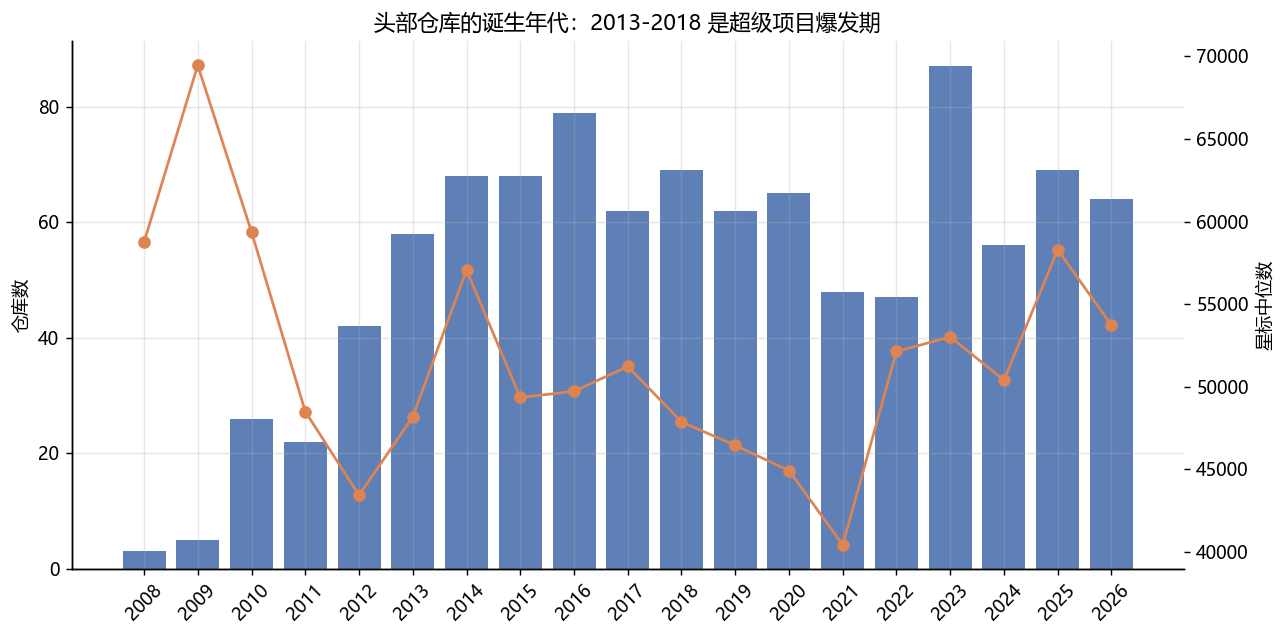
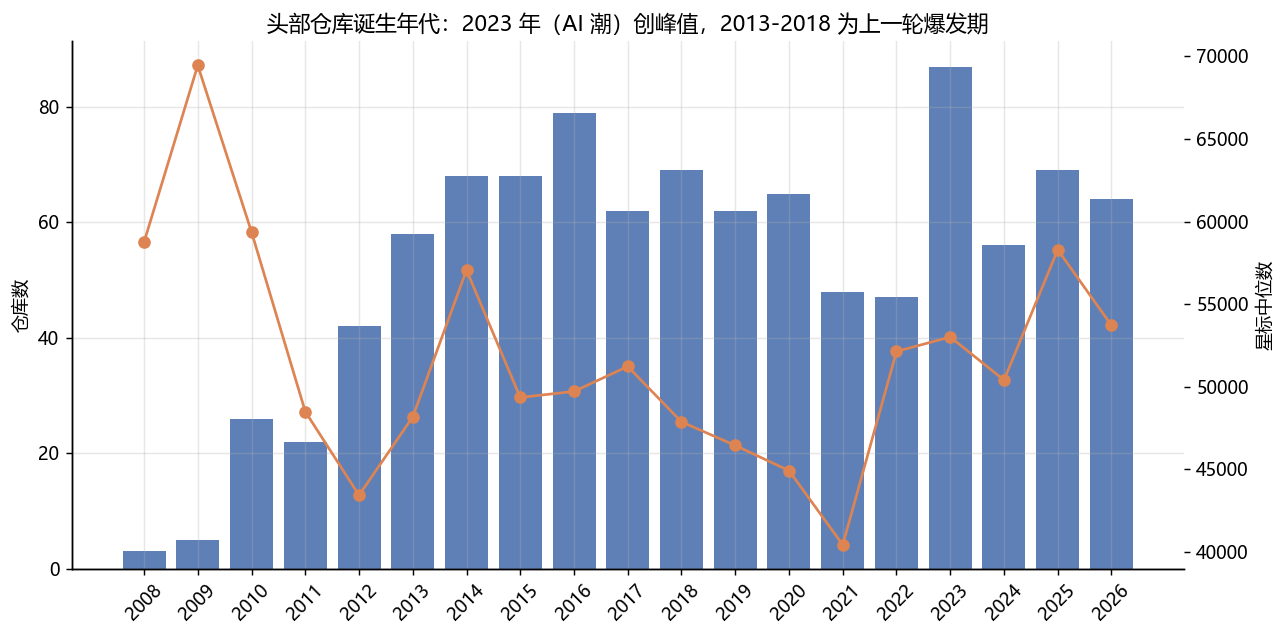
polish: 图表与呈现优化
- 修正 02 项目诞生年代图标题与数据不一致（峰值实为 2023）
- Preston 曲线国家标注改为中文
- 01 项目移除 __import__ 动态导入，改用顶部正常 import
- 总 README 增加 CI 徽章与作品速览图墙

Changed region(s): [[0.1865, 0.0, 0.777, 0.0597]]

diff --git a/projects/03_world_indicators/analyze.py b/projects/03_world_indicators/analyze.py
@@ -48,16 +48,18 @@ def chart_china(df: pd.DataFrame) -> Path:
 def chart_income_life(df: pd.DataFrame) -> Path:
     setup_style()
     d = df[df["year"] == LATEST].dropna(subset=["gdp_pc", "life_exp"])
-    big = {"CHN", "USA", "IND", "JPN", "DEU", "BRA", "RUS", "NGA", "IDN", "KOR"}
+    big = {"CHN": "中国", "USA": "美国", "IND": "印度", "JPN": "日本",
+           "DEU": "德国", "BRA": "巴西", "RUS": "俄罗斯", "NGA": "尼日利亚",
+           "IDN": "印尼", "KOR": "韩国"}
     fig, ax = plt.subplots(figsize=(10, 5.5))
     ax.scatter(d["gdp_pc"], d["life_exp"], s=22, alpha=0.55,
                c="#4C72B0", edgecolors="none")
-    for cid in big:
+    for cid, name in big.items():
         row = d[d["country_id"] == cid]
         if len(row):
             r = row.iloc[0]
             ax.scatter(r["gdp_pc"], r["life_exp"], s=70, c="#C44E52", zorder=5)
-            ax.annotate(r["country"], (r["gdp_pc"], r["life_exp"]), fontsize=9,
+            ax.annotate(name, (r["gdp_pc"], r["life_exp"]), fontsize=9,
                         xytext=(4, 4), textcoords="offset points")
     ax.set_xscale("log")
     corr = d[["gdp_pc", "life_exp"]].corr().iloc[0, 1]

diff --git a/projects/01_weather_cities/analyze.py b/projects/01_weather_cities/analyze.py
@@ -10,6 +10,7 @@ from pathlib import Path
 sys.path.insert(0, str(Path(__file__).resolve().parents[2]))
 
 import matplotlib.pyplot as plt
+import numpy as np
 import pandas as pd
 
 from datap.plotstyle import save_chart, setup_style
@@ -56,8 +57,7 @@ def _slope(x: pd.DataFrame) -> float:
     yearly = x.groupby("year")["tmean"].mean()
     if yearly.notna().sum() < 3:
         return float("nan")
-    return pd.Series(yearly.values, index=yearly.index).pipe(
-        lambda s: __import__("numpy").polyfit(s.index, s.values, 1)[0])
+    return float(np.polyfit(yearly.index, yearly.values, 1)[0])
 
 
 def chart_monthly(df: pd.DataFrame) -> Path:

diff --git a/projects/02_github_top/analyze.py b/projects/02_github_top/analyze.py
@@ -45,7 +45,7 @@ def chart_year(df: pd.DataFrame) -> Path:
     ax2.grid(False)
     ax2.set_ylabel("星标中位数")
     ax.set_ylabel("仓库数")
-    ax.set_title("头部仓库的诞生年代：2013-2018 是超级项目爆发期")
+    ax.set_title("头部仓库诞生年代：2023 年（AI 潮）创峰值，2013-2018 为上一轮爆发期")
     ax.tick_params(axis="x", rotation=45)
     return save_chart(fig, CHARTS / "created_year.png")
 

diff --git a/README.md b/README.md
@@ -1,8 +1,20 @@
 # data-portfolio · 数据采集与分析作品集
 
+[![CI](https://github.com/heee-a/data-portfolio/actions/workflows/ci.yml/badge.svg)](https://github.com/heee-a/data-portfolio/actions/workflows/ci.yml)
+[![Python](https://img.shields.io/badge/python-3.10%2B-blue)](https://www.python.org/)
+[![License: MIT](https://img.shields.io/badge/license-MIT-green)](LICENSE)
+
 面向数据分析岗位的实战作品集：**七个**完整的小项目，覆盖采集、SQL、统计推断、
 文本挖掘、时序预测、可视化。每个项目都走完 **数据 → 清洗 → 分析 → 结论** 全链路。
 所有数据、图表、结论均由仓库内脚本从公开数据源真实采集生成，可一键复现。
+
+## 作品速览
+
+| ![六城月均温](projects/01_weather_cities/charts/monthly_temp.png) | ![Preston曲线](projects/03_world_indicators/charts/income_life.png) |
+|---|---|
+| [01 城市气象](projects/01_weather_cities/)：南北冬差 37℃ vs 夏差 13℃ | [03 世界指标](projects/03_world_indicators/)：收入-寿命 Preston 曲线 |
+| ![语言构成](projects/02_github_top/charts/language.png) | ![四季如春](projects/05_stats_inference/charts/test3_kunming.png) |
+| [02 GitHub 画像](projects/02_github_top/)：Python 占 23%，AI 潮创诞生峰值 | [05 统计推断](projects/05_stats_inference/)：「四季如春」的统计验证 |
 
 ## 项目一览
 

diff --git a/projects/02_github_top/README.md b/projects/02_github_top/README.md
@@ -24,8 +24,8 @@
 
 1. **Python 统治头部开源**：229 个（23%），TypeScript 172、JavaScript 107、Go 75；
    前三语言合计 **51%**；
-2. **诞生峰值在 2023 年**（87 个）——AI 项目让新仓库快速冲进头部（topic 里
-   `ai` 出现 99 次）；2013-2018 是上一个爆发期（占 40%）；
+2. **诞生峰值在 2023 年**（87 个，历史最高）——AI 项目让新仓库快速冲进头部（topic 里
+   `ai` 出现 99 次）；2013-2018 是上一轮爆发期（占 40%）；
 3. **星标是幂律分布**：中位数 4.9 万，头部 `codecrafters-io/build-your-own-x`
    54.7 万（中位数的 11 倍），log-log 下近似直线；
 4. 8% 的头部仓库**没有 license**；
